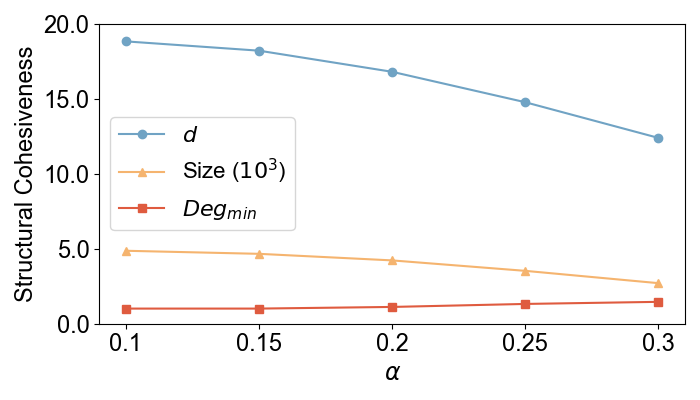
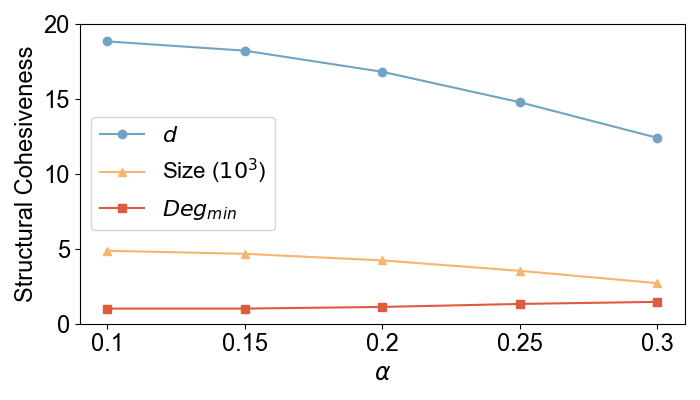
Convert float ysticks to integer

diff --git a/Visualization/Parameter_selection.py b/Visualization/Parameter_selection.py
@@ -133,6 +133,7 @@ Use params as x-axis, measures as y-axis
 2. Draw a line chart, with each parameter as a line, each structure measure as a point
 """
 def draw_graph_STExa(cohesiveness_mean, cohesiveness_std, structural_mean, structural_std, algorithm, dataset_name, y_lb, y_ub):
+    global save_path
     # Draw the bar chart
     params = list(cohesiveness_mean.keys())
     cohesiveness = list(cohesiveness_mean.values())
@@ -160,7 +161,6 @@ def draw_graph_STExa(cohesiveness_mean, cohesiveness_std, structural_mean, struc
     plt.tight_layout()
     
     # save the figure
-    save_path = "D:/Cohesion_Evaluation/Figures/Param_Selection/"
     plt.savefig(f"{save_path}{algorithm}_{dataset_name}_params_cohesiveness.png")
     plt.show()
 
@@ -185,6 +185,7 @@ def draw_graph_STExa(cohesiveness_mean, cohesiveness_std, structural_mean, struc
 
 
 def draw_graph_ALS(cohesiveness_mean, cohesiveness_std, structural_mean, structural_std, algorithm, dataset_name, y_lb, y_ub):
+    global save_path
     # Draw the bar chart
     params = list(cohesiveness_mean.keys())
     cohesiveness = list(cohesiveness_mean.values())
@@ -212,7 +213,6 @@ def draw_graph_ALS(cohesiveness_mean, cohesiveness_std, structural_mean, structu
     plt.tight_layout()
     
     # save the figure
-    save_path = "D:/Cohesion_Evaluation/Figures/Param_Selection/"
     plt.savefig(f"{save_path}{algorithm}_{dataset_name}_params_cohesiveness.png")
     plt.show()
 
@@ -236,7 +236,7 @@ def draw_graph_ALS(cohesiveness_mean, cohesiveness_std, structural_mean, structu
     y_lb, y_ub = 0, 20 # Example bounds
     y_ticks = np.linspace(y_lb, y_ub, num=5)
     ax.set_yticks(y_ticks)
-    ax.set_yticklabels([f"{y}" for y in y_ticks], fontsize=font_size)
+    ax.set_yticklabels([f"{int(y)}" for y in y_ticks], fontsize=font_size)
 
     plt.tight_layout()
     plt.savefig(f"{save_path}{algorithm}_{dataset_name}_params_structural_cohesiveness.png")
@@ -246,7 +246,8 @@ def draw_graph_ALS(cohesiveness_mean, cohesiveness_std, structural_mean, structu
 # Attribute directory
 attribute_dir = "D:/Cohesion_Evaluation/Original_Datasets/Preprocessed_Datasets/"
 results_dir = "D:/Cohesion_Evaluation/Cohesiveness_Output/"
-
+save_path = "D:/Cohesion_Evaluation/Figures/Param_Selection/"
+    
 # Parameters for the ST-Exa results
 STExa_params_list = [[1, 10], [11, 20], [21, 30], [31, 40], [41, 50], [51, 60], [61, 70], [71, 80]]
 ALS_params_list = [0.1, 0.15, 0.2, 0.25, 0.3]
